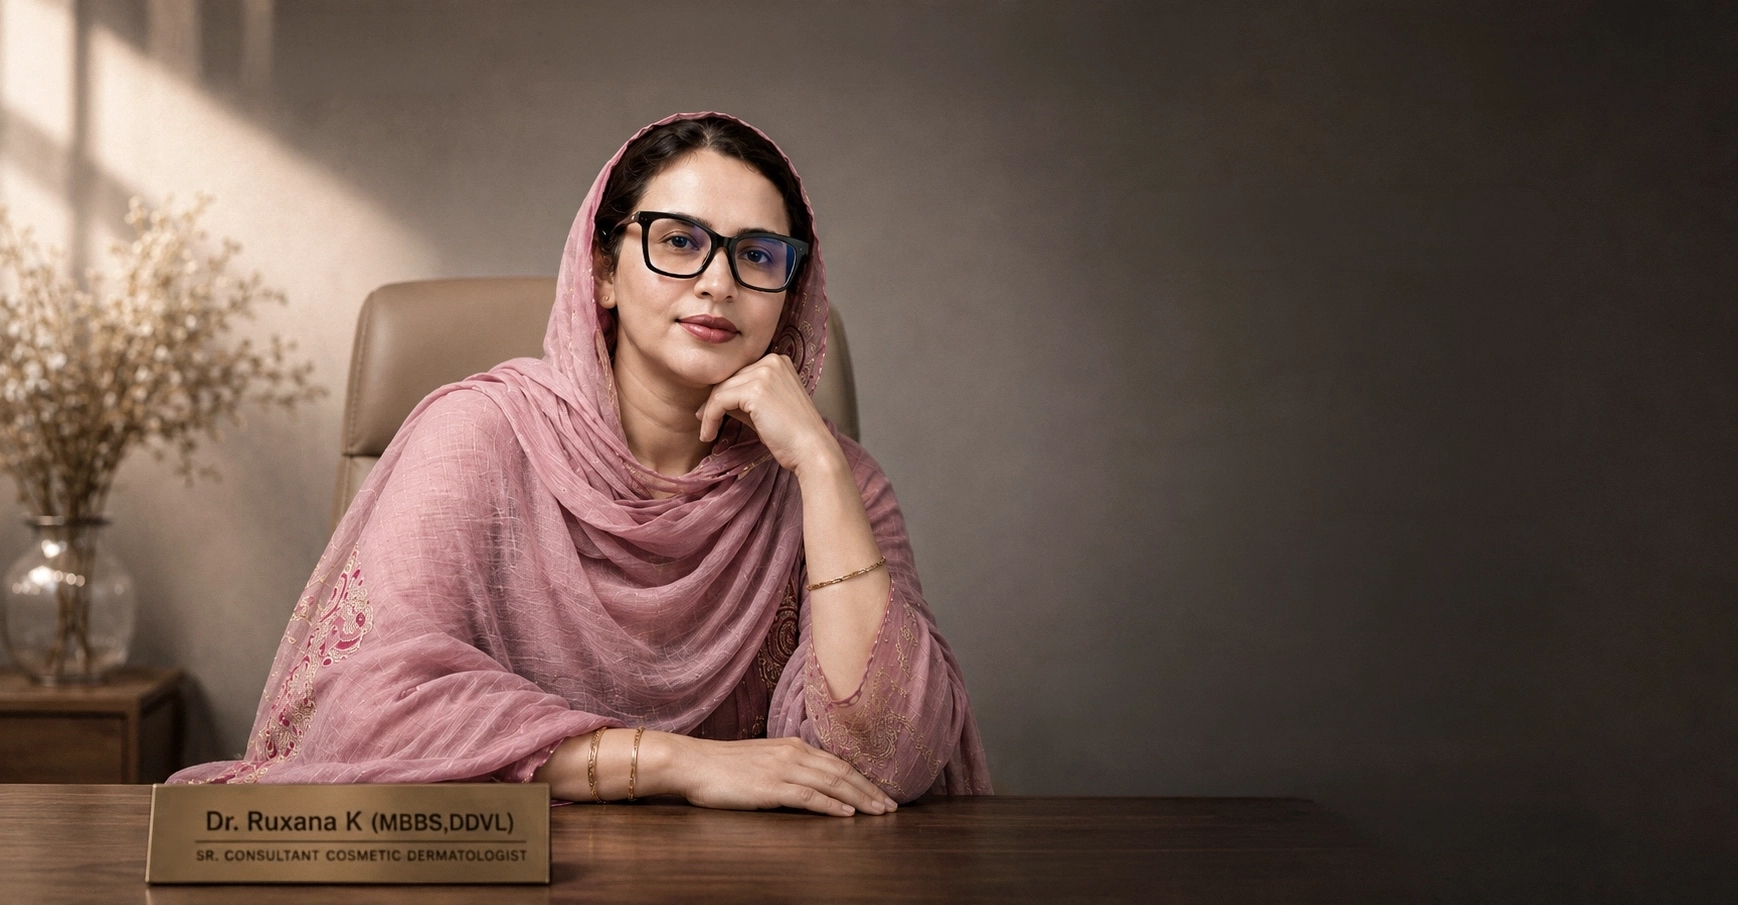
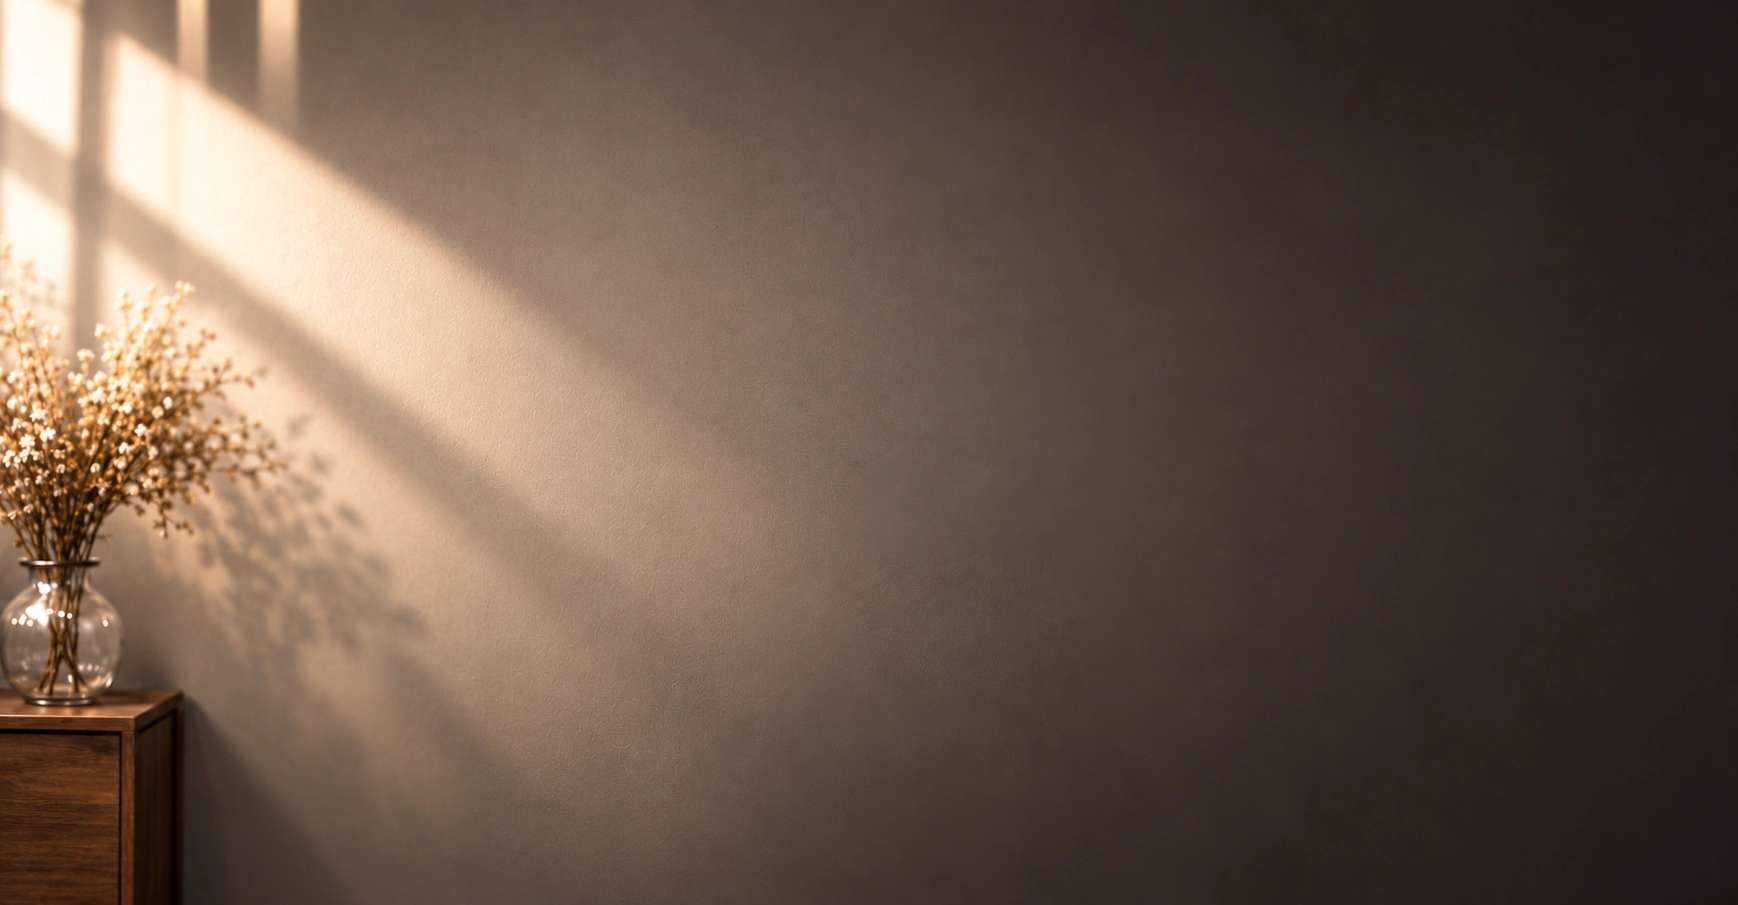
Done

diff --git a/app/page.tsx b/app/page.tsx
@@ -92,7 +92,7 @@ export default function LoginPage() {
             }}
           />
 
-          <div className="absolute bottom-20 left-6 z-10 hidden w-full max-w-[26rem] md:left-10 lg:block">
+          <div className="absolute bottom-20 right-6 z-10 hidden w-full max-w-[21rem] md:right-10 xl:block 2xl:max-w-[26rem]">
             <div className="relative overflow-hidden rounded-3xl border border-white/20 bg-[#160a05]/55 p-6 shadow-[0_20px_60px_-24px_rgba(0,0,0,0.8)] backdrop-blur-xl animate-fade-up-delay-2">
               <div className="absolute bottom-6 left-0 top-6 w-1 rounded-r-full bg-[#e6b589]" />
               <div className="mb-3 flex items-center gap-3">
@@ -110,7 +110,7 @@ export default function LoginPage() {
           </div>
 
           <div className="relative mx-auto grid min-h-screen w-11/12 grid-cols-1 items-stretch gap-10 py-28 sm:w-10/12 lg:w-11/12 lg:gap-12 lg:py-16 xl:w-3/4 xl:gap-16 xl:py-20">
-            <section className="w-full max-w-lg ml-auto self-center flex flex-col gap-10">
+            <section className="mx-auto flex w-full max-w-lg flex-col gap-10 self-center">
               <div className="relative overflow-hidden rounded-2xl border border-white/15 bg-black/20 p-6 text-white shadow-[0_24px_70px_-24px_rgba(10,5,3,0.6)] backdrop-blur-sm sm:p-8 animate-fade-up-delay-2">
                 <div className="absolute inset-x-6 top-0 h-[3px] rounded-full bg-gradient-to-r from-[var(--brand)] via-[#ead0b8] to-[var(--brand)]" />
 
